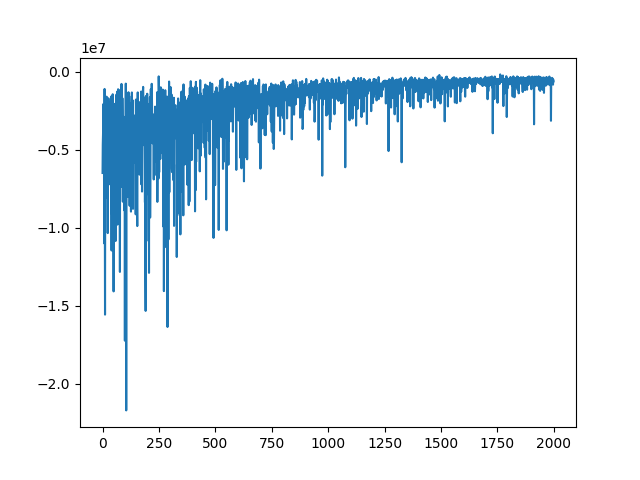
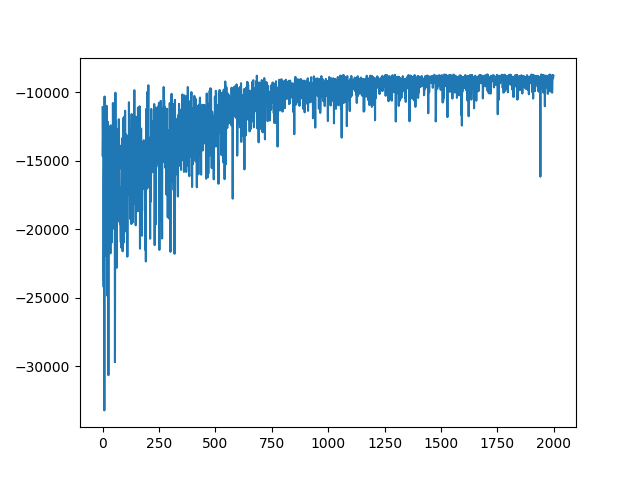
stored posterior, simple plot

diff --git a/src/nf_transport/choice_models/choice_model_tests.py b/src/nf_transport/choice_models/choice_model_tests.py
@@ -1,7 +1,5 @@
+import numpy as np
 import torch
-from database_process import ChoiceDataset
-from logpd import LogJointDensity
-from parameter import ChoiceParameter
 from torch.distributions import (
     Bernoulli,
     Categorical,
@@ -10,47 +8,41 @@ from torch.distributions import (
     Normal,
     Uniform,
 )
-from torch.optim import optimizer
-from torch.utils.data import DataLoader, Dataset
-from utility import ChoiceUtility
+from torch.utils.data import Dataset
 
-from nf_transport.choice_models.database_process import MultinomialChoiceData
-from nf_transport.choice_models.logpd import ChoiceModelLogJoint
+from nf_transport.choice_models.database_process import (
+    ChoiceDataset,
+    MultinomialChoiceData,
+)
+from nf_transport.choice_models.logpd import ChoiceModelLogJoint, LogJointDensity
 from nf_transport.choice_models.nfvi import NFVI, PlanarFlow, PlanarTransform
-
-
-def test_adding_priors():
-    post = LogJointDensity()
-    print(post.value())
-    alpha = ChoiceParameter(torch.randn(1).uniform_())
-    beta = ChoiceParameter(torch.randn(1).uniform_())
-    alpha.set_prior(Normal(torch.tensor([0.0]), torch.tensor([1.0])))
-    post.add(alpha.eval_prior(alpha))
-    print(post.value())
-    beta.set_prior(Normal(torch.tensor([0.0]), torch.tensor([3.0])))
-    post.add(alpha.eval_prior(alpha))
-    print(post.value())
-    return
+from nf_transport.choice_models.parameter import ChoiceParameter
+from nf_transport.choice_models.utility import ChoiceUtility
 
 
 def likelihood(param_slices, data: ChoiceDataset):
     utilities = []
+    availabilities = []
     for dataset, (name, beta) in zip(data.alternatives, param_slices.items()):
         V = ChoiceUtility(dataset.features, beta, dataset.has_asc)
         utilities.append(V.value())
-    logits = torch.stack(utilities, dim=1)
+        availabilities.append(dataset.availability.all(dim=-1))  # [N]
+    logits = torch.stack(utilities, dim=1)  # [N, J]
+    avail = torch.stack(availabilities, dim=1)  # [N, J]
+    logits = logits.masked_fill(~avail, float("-inf"))
     ll = Categorical(logits=logits).log_prob(data.choices).sum()
     return ll
 
 
-def test_adding_likelihood():
+def swissmetro_likelihood():
 
     sm_train = ChoiceDataset(
         filepath="data/swissmetro.dat",
         choice_col="CHOICE",
-        feature_cols=["AGE", "INCOME", "TRAIN_TT", "TRAIN_CO", "TRAIN_HE"],
+        feature_cols=["TRAIN_TT", "TRAIN_CO"],
         avail_cols=["TRAIN_AV"],
         has_asc=True,
+        scale=True,
     )
 
     sm_car = ChoiceDataset(
@@ -58,35 +50,37 @@ def test_adding_likelihood():
         choice_col="CHOICE",
         feature_cols=["CAR_TT", "CAR_CO"],
         avail_cols=["CAR_AV"],
-        has_asc=False,
+        has_asc=True,
+        scale=True,
     )
 
     sm_sm = ChoiceDataset(
         filepath="data/swissmetro.dat",
         choice_col="CHOICE",
-        feature_cols=["AGE", "INCOME", "SM_TT", "SM_CO", "SM_HE"],
+        feature_cols=["SM_TT", "SM_CO"],
         avail_cols=["SM_AV"],
-        has_asc=True,
+        has_asc=False,
+        scale=True,
     )
 
     beta_train = ChoiceParameter(dim=sm_train.features.size(1) + 1, name="beta_train")
     beta_train.set_prior(
         Normal(torch.zeros(beta_train.dim), torch.ones(beta_train.dim))
     )
-    beta_car = ChoiceParameter(dim=sm_car.features.size(1), name="beta_car")
+    beta_car = ChoiceParameter(dim=sm_car.features.size(1) + 1, name="beta_car")
     beta_car.set_prior(Normal(torch.zeros(beta_car.dim), torch.ones(beta_car.dim)))
-    beta_sm = ChoiceParameter(dim=sm_sm.features.size(1) + 1, name="beta_sm")
+    beta_sm = ChoiceParameter(dim=sm_sm.features.size(1), name="beta_sm")
     beta_sm.set_prior(Normal(torch.zeros(beta_sm.dim), torch.ones(beta_sm.dim)))
 
     log_joint = ChoiceModelLogJoint(
         data=MultinomialChoiceData(
-            alternatives=[sm_train, sm_car, sm_sm], choices=sm_train.choices
+            alternatives=[sm_train, sm_sm, sm_car], choices=sm_train.choices
         ),
-        params=[beta_train, beta_car, beta_sm],
+        params=[beta_train, beta_sm, beta_car],
         likelihood_fn=likelihood,
     )
 
-    param_list = [beta_train, beta_car, beta_sm]
+    param_list = [beta_train, beta_sm, beta_car]
 
     return log_joint, param_list
 
@@ -95,7 +89,7 @@ def swissmetro():
     import matplotlib.pyplot as plt
     import numpy as np
 
-    log_joint, param_list = test_adding_likelihood()
+    log_joint, param_list = swissmetro_likelihood()
     param_dim = sum(p.dim for p in param_list)
     nfvi = NFVI(
         flow=PlanarFlow(dim=param_dim, K=12), log_joint=log_joint, param_dim=param_dim
@@ -120,13 +114,18 @@ def swissmetro():
         z_K, _ = nfvi.flow(z0)
         posterior_mean = z_K.mean(dim=0)
 
+    posterior = {}
     offset = 0
     for p in param_list:
         print(f"{p.name}: {posterior_mean[offset : offset + p.dim]}")
+        for d in range(p.dim):
+            posterior[f"{p.name}[{d}]"] = z_K[:, offset + d]
         offset += p.dim
 
-    plt.plot(np.arange(n_steps), elbo_list)
-    plt.savefig("nfvi_elbo.png")
+    np.savez(
+        "estimates/sm_posterior.npz",
+        **{k: v.numpy()[np.newaxis, :] for k, v in posterior.items()},
+    )
 
 
 swissmetro()

diff --git a/src/nf_transport/choice_models/database_process.py b/src/nf_transport/choice_models/database_process.py
@@ -16,7 +16,13 @@ class ChoiceDataset(Dataset):
     """
 
     def __init__(
-        self, feature_cols, choice_col, avail_cols, filepath: str, has_asc: bool = True
+        self,
+        feature_cols,
+        choice_col,
+        avail_cols,
+        filepath: str,
+        has_asc: bool = True,
+        scale: bool = False,
     ) -> None:
         super().__init__()
         if ".dat" in filepath:
@@ -26,10 +32,18 @@ class ChoiceDataset(Dataset):
 
         df = pd.read_csv(filepath, sep=sepstring)
         df = df[df[choice_col] > 0]
+
+        # scale features
+
         self.features = torch.tensor(df[feature_cols].values, dtype=torch.float32)
         self.choices = torch.tensor(df[choice_col].values, dtype=torch.long) - 1
         self.availability = torch.tensor(df[avail_cols].values, dtype=torch.float32)
         self.has_asc = has_asc
+
+        self.feature_mean = self.features.mean(dim=0)
+        self.feature_std = self.features.std(dim=0).clamp(min=1e-8)
+        if scale:
+            self.features = (self.features - self.feature_mean) / self.feature_std
 
     def __len__(self):
         return len(self.choices)

diff --git a/src/nf_transport/choice_models/posterior_viz.py b/src/nf_transport/choice_models/posterior_viz.py
@@ -1,0 +1,15 @@
+import arviz as az
+import arviz_plots as azp
+import numpy as np
+
+# from arviz_plots import azp
+
+
+def plot_params():
+    post = np.load("estimates/sm_posterior.npz")
+    idata = az.from_dict(posterior=dict(post))
+    forest = azp.plot_forest(idata)
+    forest.show()
+
+
+plot_params()